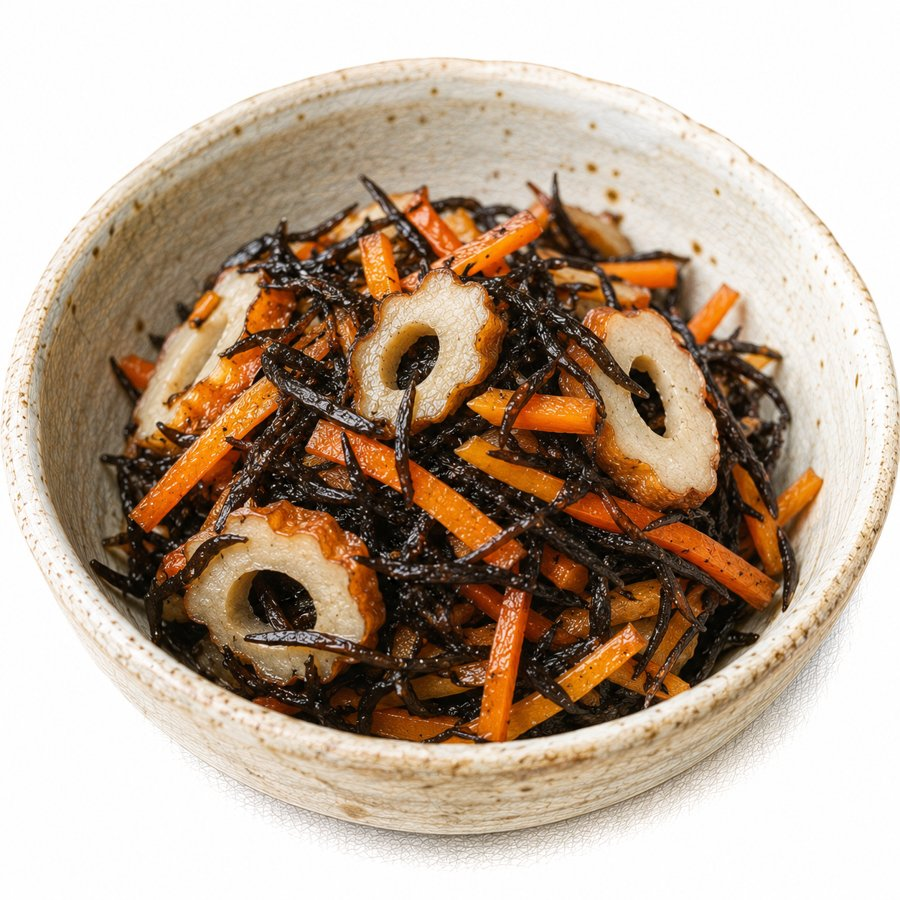
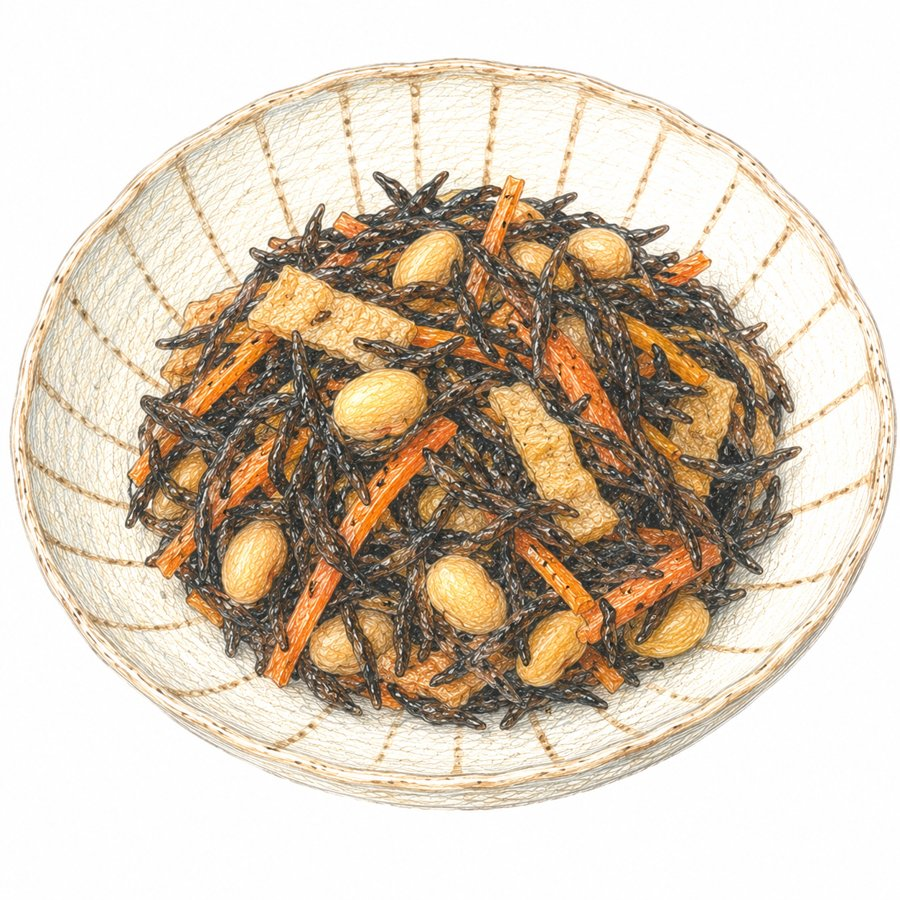
Add files via upload

diff --git a/recipe/index.html b/recipe/index.html
@@ -264,8 +264,8 @@
       width: 55%;                 /* 画像はカード幅の約半分 */
       aspect-ratio: 1 / 1;
       position: relative;
-      overflow: hidden;
-      margin: 8px auto 12px;      /* 中央寄せ */
+      overflow: visible;          /* バッジが切れないように */
+      margin: 12px auto 12px;     /* 中央寄せ */
       border-radius: 16px;
     }
 
@@ -2447,7 +2447,7 @@ function openModal(id) {
   if (!r) return;
   document.getElementById('modal-inner').innerHTML = `
     ${r.image
-      ? `<img src="${r.image}" alt="${r.title}" style="width:100%;height:240px;object-fit:cover;display:block;border-radius:0;">`
+      ? `<img src="${r.image}" alt="${r.title}" style="width:200px;height:200px;object-fit:cover;display:block;margin:32px auto 0;border-radius:16px;">`
       : `<div class="modal-photo ${r.color}" style="font-size:80px;">${r.emoji}</div>`
     }
     <div class="modal-body">
